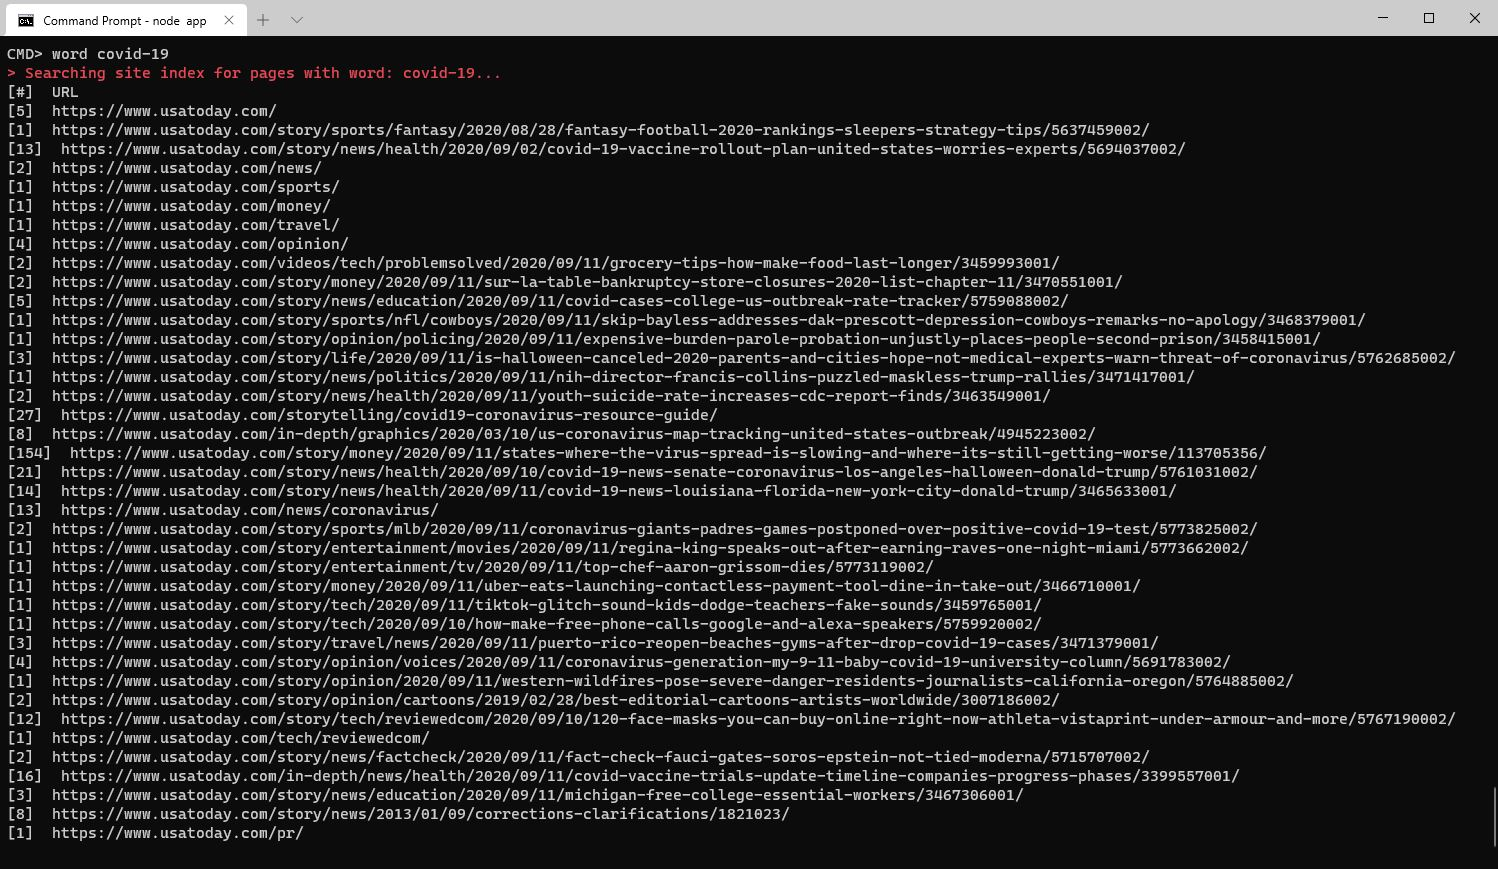
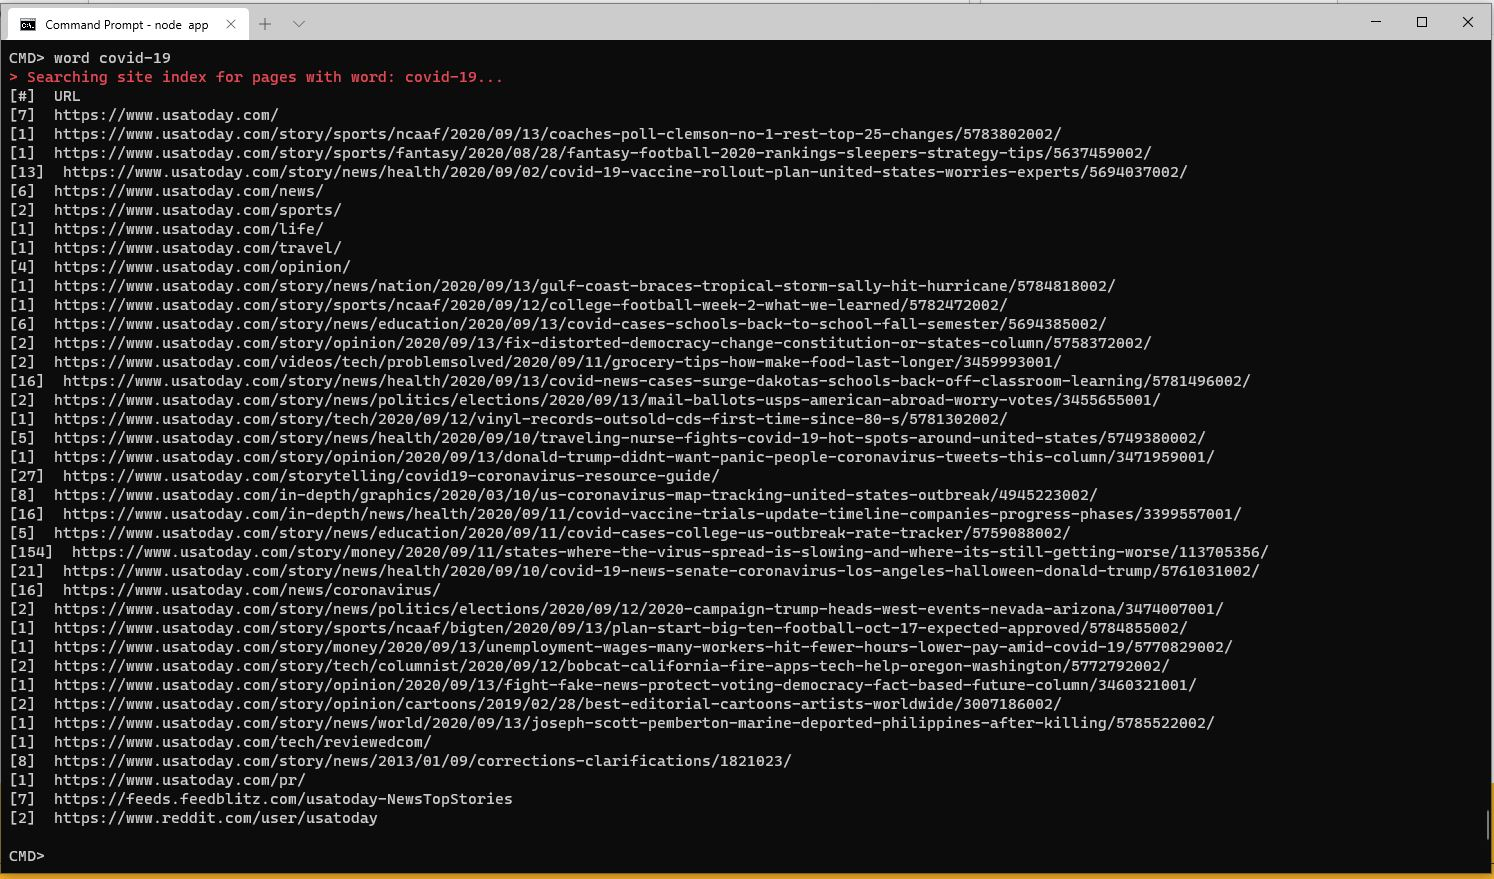
modifications to fix some input errors, new screenshots

Changed region(s): [[0.0, 0.0, 1.0, 1.0]]

diff --git a/src/spider.js b/src/spider.js
@@ -14,7 +14,10 @@ const cheerio = require('cheerio');
 const htmlToText = require('html-to-text');
 
 // simplecrawler - https://www.npmjs.com/package/simplecrawler
-let Crawler = require("simplecrawler");
+let Crawler = require('simplecrawler');
+
+// config
+const config = require('../config/config.js');
 
 // spider class wraps an instance of crawler
 function spider(url, maxDepth) {
@@ -38,7 +41,7 @@ function spider(url, maxDepth) {
     /*** Do we want to move all configuration values to the config.js and the spider instance? ***/
 
     // set to true to keep on targetURL only
-    crawler.filterByDomain = true;
+    crawler.filterByDomain = config.sameDomain;
     crawler.scanSubdomains = true;
 
     // some other settings 
@@ -198,6 +201,9 @@ spider.prototype.read = function(args, callback) {
     if (Object.keys(this.store).length === 0 && this.store.constructor === Object) {
         res = "> No items exist, try running start";
     }
+    else if (args === undefined || args === null) {
+        res = "> Unknown index, try read [int].  Check 'pages' for available indices.";
+    }
     else {
 
         let argcheck = true;
@@ -237,6 +243,9 @@ spider.prototype.listlinks = function(args, callback) {
     if (Object.keys(this.store).length === 0 && this.store.constructor === Object) {
         res = "> No items exist, try running start";
     }
+    else if (args === undefined || args === null) {
+        res = "> Unknown index, try listlinks [int].  Check 'pages' for available indices.";
+    }    
     else {
 
         let argcheck = true;
@@ -279,6 +288,9 @@ spider.prototype.listwords = function(args, callback) {
     if (Object.keys(this.store).length === 0 && this.store.constructor === Object) {
         res = "> No items exist, try running start";
     }
+    else if (args === undefined || args === null) {
+        res = "> Unknown index, try listwords [int].  Check 'pages' for available indices.";
+    }
     else {
 
         let argcheck = true;
@@ -319,6 +331,9 @@ spider.prototype.word = function(args, callback) {
     if (Object.keys(store).length === 0 && store.constructor === Object) {
         res = "> No items exist, try running start";
     }
+    else if (args === undefined || args === null) {
+        res = "> No arguments entered! Try searching for a word";
+    }    
     else if ((args !== undefined) && (args !== null)) {
         // args is a word to check the store for
         let arg = args.toLowerCase();
@@ -332,7 +347,7 @@ spider.prototype.word = function(args, callback) {
 
     }
     else {
-        res = "> Unknown index, try word [str].  Check 'pages' for available indices.";
+        res = "> Try word [str] to search for found words!";
     }
   
     callback(res);

diff --git a/config/config.js b/config/config.js
@@ -11,6 +11,9 @@ config.prefix = 'CMD> ';
 // Crawler target
 config.url = 'https://www.usatoday.com/';
 
+// Crawler scan only domain or any domain
+config.sameDomain = false;
+
 // First page and discovered links from it are fetched
 config.maxDepth = 2;
 
